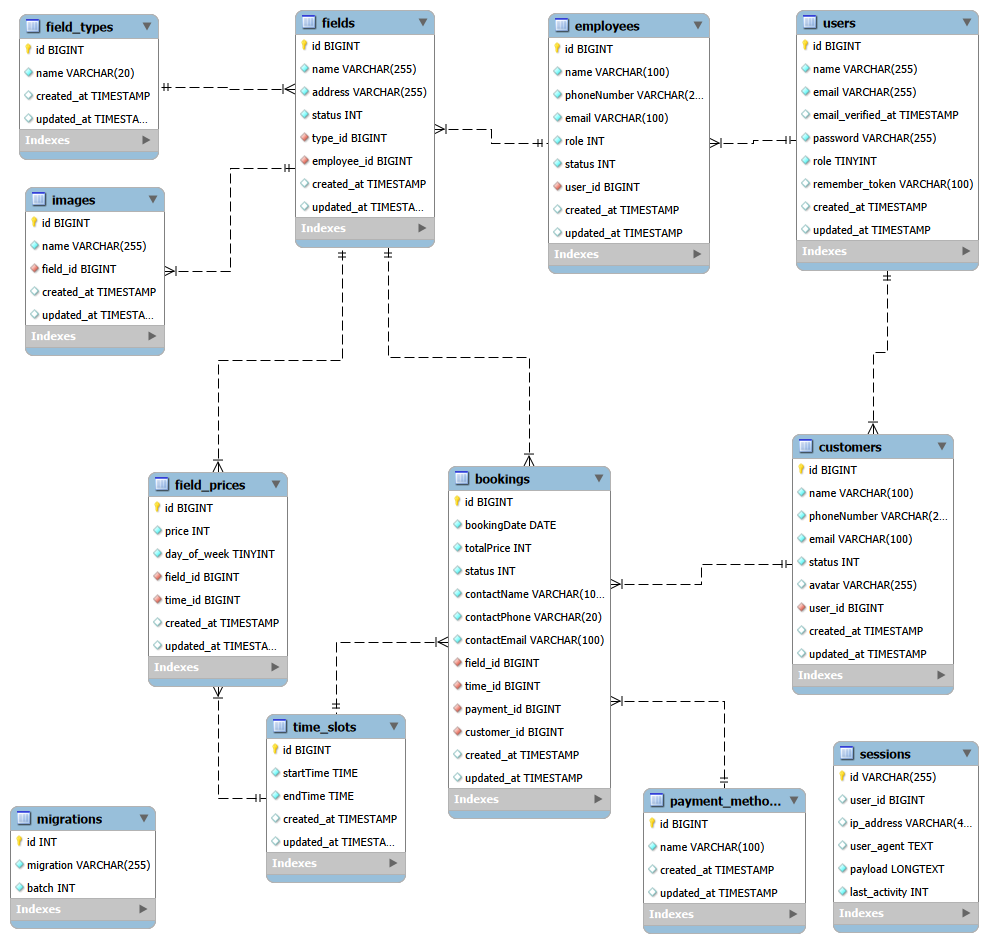
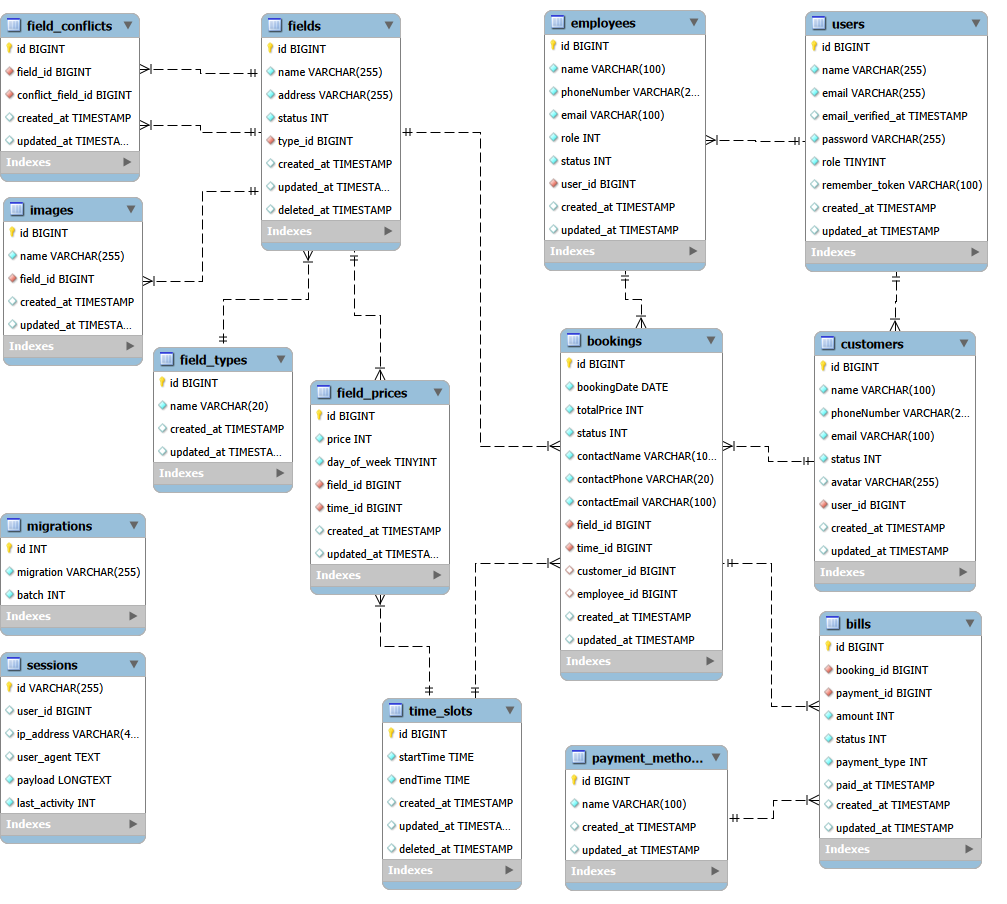
thay đổi cấu trúc file modal field

diff --git a/app/Http/Controllers/BookingController.php b/app/Http/Controllers/BookingController.php
@@ -57,64 +57,64 @@ class BookingController extends Controller
     public function store(StoreBookingRequest $request)
     {
         $user = Auth::user();
-        $customerId = $user->customers->id;
-        $field = Field::with(['conflicts', 'reverseConflicts'])->findOrFail($request->field_id);
-        $conflictFieldIds = $field->getConflictFieldIds();
 
-        DB::beginTransaction();
+        $field = Field::with(['conflicts', 'reverseConflicts'])
+            ->findOrFail($request->field_id);
 
         try {
-            $exists = Booking::whereIn('field_id', $conflictFieldIds)
-                ->where('bookingDate', $request->date)
-                ->where('time_id', $request->time_id)
-                ->whereNotIn('status', [3, 4])
-                ->lockForUpdate()
-                ->exists();
+            $booking = DB::transaction(function () use ($request, $user, $field) {
 
-            if ($exists) {
-                DB::rollBack();
-                return back()->withInput()->withErrors(['time_id' => 'Khung giờ này đã được đặt!']);
-            }
+                $conflictFieldIds = $field->getConflictFieldIds();
 
-            $billAmount = $request->price;
+                Field::whereIn('id', $conflictFieldIds)
+                    ->lockForUpdate()
+                    ->get();
 
-            if ($request->payment_type == 'deposit') {
-                $billAmount = $request->price / 2;
-            }
+                $exists = Booking::whereIn('field_id', $conflictFieldIds)
+                    ->where('bookingDate', $request->date)
+                    ->where('time_id', $request->time_id)
+                    ->whereNotIn('status', [3, 4])
+                    ->exists();
 
-            $booking = Booking::create([
-                'bookingDate' => $request->date,
-                'totalPrice' => $request->price,
-                'status' => 0,
-                'contactName' => $request->contactName,
-                'contactPhone' => $request->contactPhone,
-                'contactEmail' => $request->contactEmail,
-                'field_id' => $request->field_id,
-                'time_id' => $request->time_id,
-                'customer_id' => $customerId,
-                'employee_id' => null,
-            ]);
+                if ($exists) {
+                    throw new \Exception('Khung giờ này đã được đặt!');
+                }
 
-            Bill::create([
-                'booking_id' => $booking->id,
-                'payment_id' => $request->payment_id,
-                'amount' => $billAmount,
-                'status' => 0,
-                'payment_type' => $request->payment_type,
-                'paid_at' => null,
-                'note' => null,
-            ]);
+                $billAmount = $request->price;
 
-            DB::commit();
-            return redirect()->route('booking.success', $booking->id)->with('success', 'Đặt sân bóng thành công!');
-        } catch (QueryException $e) {
-            DB::rollBack();
+                if ($request->payment_type === 'deposit') {
+                    $billAmount = $request->price / 2;
+                }
 
-            if ($e->getCode() == 23000) {
-                return back()->withErrors(['time_id' => 'Khung giờ này đã được đặt.']);
-            }
+                $booking = Booking::create([
+                    'bookingDate' => $request->date,
+                    'totalPrice' => $request->price,
+                    'status' => 0,
+                    'contactName' => $request->contactName,
+                    'contactPhone' => $request->contactPhone,
+                    'contactEmail' => $request->contactEmail,
+                    'field_id' => $request->field_id,
+                    'time_id' => $request->time_id,
+                    'customer_id' => $user->customers->id,
+                ]);
 
-            throw $e;
+                $booking->Bills()->create([
+                    'payment_id' => $request->payment_id,
+                    'amount' => $billAmount,
+                    'status' => 0,
+                    'payment_type' => $request->payment_type,
+                ]);
+
+                return $booking;
+            });
+
+            return redirect()
+                ->route('booking.success', $booking->id)
+                ->with('success', 'Đặt sân bóng thành công!');
+        } catch (\Exception $e) {
+            return back()
+                ->withInput()
+                ->withErrors(['time_id' => $e->getMessage()]);
         }
     }
 

diff --git a/app/Http/Controllers/HomeController.php b/app/Http/Controllers/HomeController.php
@@ -50,20 +50,16 @@ class HomeController extends Controller
             });
         }
 
-        // lọc theo địa chỉ
         if ($request->province) {
             $province = str_replace(['Thành phố ', 'Tỉnh '], '', $request->province);
-
             $query->where('address', 'like', "%$province%");
         }
 
-        // lọc theo loại sân
         if ($type_id) {
             $query->where('type_id', $type_id);
         }
 
         $fields = $query->latest()->paginate(6);
-
         $types = FieldType::all();
 
         return view('customers.fields.search', compact('search', 'fields', 'types', 'type_id'));
@@ -71,48 +67,27 @@ class HomeController extends Controller
 
     public function show(Request $request, $id)
     {
-        $field = Field::with(['FieldPrice.TimeSlot', 'conflicts', 'reverseConflicts'])->findOrFail($id);
+        $field = Field::with([
+            'FieldPrice.TimeSlot',
+            'conflicts',
+            'reverseConflicts'
+        ])->findOrFail($id);
 
-        if ($request->has('date')) {
-            $date = $request->date;
-        } else {
-            $date = Carbon::today()->toDateString();
-        }
+        $date = $request->get('date', now()->toDateString());
 
-        $dayOfWeek = Carbon::parse($date)->dayOfWeekIso;
+        $prices = $field->getPricesByDate($date);
 
-        $prices = $field->FieldPrice
-            ->where('day_of_week', $dayOfWeek)
-            ->sortBy(fn($p) => $p->TimeSlot->startTime);
+        $slots = $field->splitTimeSlots($prices);
 
-        $conflictFieldIds = $field->getConflictFieldIds();
+        $bookedSlots = $field->getBookedSlots($date);
 
-        $bookedSlots = Booking::whereIn('field_id', $conflictFieldIds)
-            ->where('bookingDate', $date)
-            ->whereNotIn('status', [3, 4])
-            ->pluck('time_id')
-            ->toArray();
-
-        $morning = $prices->filter(function ($p) {
-            return Carbon::parse($p->TimeSlot->startTime)->hour < 12;
-        });
-
-        $afternoon = $prices->filter(function ($p) {
-            $hour = Carbon::parse($p->TimeSlot->startTime)->hour;
-            return $hour >= 12 && $hour < 18;
-        });
-
-        $evening = $prices->filter(function ($p) {
-            return Carbon::parse($p->TimeSlot->startTime)->hour >= 18;
-        });
-
-        return view('customers.fields.show', compact(
-            'field',
-            'date',
-            'morning',
-            'afternoon',
-            'evening',
-            'bookedSlots'
-        ));
+        return view('customers.fields.show', [
+            'field' => $field,
+            'date' => $date,
+            'morning' => $slots['morning'],
+            'afternoon' => $slots['afternoon'],
+            'evening' => $slots['evening'],
+            'bookedSlots' => $bookedSlots,
+        ]);
     }
 }

diff --git a/app/Models/Field.php b/app/Models/Field.php
@@ -64,4 +64,52 @@ class Field extends Model
 
         return array_values(array_unique($ids));
     }
+
+    public function getLinkedFieldsAttribute()
+    {
+        return $this->conflicts
+            ->merge($this->reverseConflicts)
+            ->unique('id')
+            ->values();
+    }
+
+    public function getPricesByDate($date)
+    {
+        $dayOfWeek = \Carbon\Carbon::parse($date)->dayOfWeekIso;
+
+        return $this->FieldPrice
+            ->where('day_of_week', $dayOfWeek)
+            ->sortBy(fn($p) => $p->TimeSlot->startTime);
+    }
+
+    public function splitTimeSlots($prices)
+    {
+        return [
+            'morning' => $prices->filter(
+                fn($p) =>
+                \Carbon\Carbon::parse($p->TimeSlot->startTime)->hour < 12
+            ),
+
+            'afternoon' => $prices->filter(function ($p) {
+                $hour = \Carbon\Carbon::parse($p->TimeSlot->startTime)->hour;
+                return $hour >= 12 && $hour < 18;
+            }),
+
+            'evening' => $prices->filter(
+                fn($p) =>
+                \Carbon\Carbon::parse($p->TimeSlot->startTime)->hour >= 18
+            ),
+        ];
+    }
+
+    public function getBookedSlots($date)
+    {
+        $conflictFieldIds = $this->getConflictFieldIds();
+
+        return \App\Models\Booking::whereIn('field_id', $conflictFieldIds)
+            ->where('bookingDate', $date)
+            ->whereNotIn('status', [3, 4])
+            ->pluck('time_id')
+            ->toArray();
+    }
 }

diff --git a/resources/views/customers/fields/show.blade.php b/resources/views/customers/fields/show.blade.php
@@ -42,11 +42,7 @@
                         </span>
                     </div>
 
-                    @php
-                        $linkedFields = $field->conflicts->merge($field->reverseConflicts)->unique('id')->values();
-                    @endphp
-
-                    @if ($linkedFields->count() > 0)
+                    @if ($field->linked_fields->count() > 0)
                         <div class="mt-4 rounded-xl border border-yellow-200 bg-yellow-50 px-4 py-3">
                             <p class="flex item-center gap-2 text-sm font-semibold text-yellow-700">
                                 <svg xmlns="http://www.w3.org/2000/svg" class="w-5 h-5" viewBox="0 0 20 20">
@@ -58,7 +54,7 @@
                                 Nếu một sân trong cụm đã được đặt, các sân còn lại cùng khung giờ sẽ tự khóa.
                             </p>
                             <div class="mt-3 flex flex-wrap gap-2">
-                                @foreach ($linkedFields as $item)
+                                @foreach ($field->linked_fields as $item)
                                     <a href="{{ route('san.show', $item->id) }}"
                                         class="rounded-full border border-yellow-300 bg-white px-3 py-1 text-sm text-yellow-700 hover:bg-amber-100">
                                         {{ $item->name }} - {{ $item->fieldType->name }}

diff --git a/database/migrations/2026_02_09_072521_create_bills_table.php b/database/migrations/2026_02_09_072521_create_bills_table.php
@@ -17,9 +17,8 @@ return new class extends Migration
             $table->unsignedBigInteger('payment_id');
             $table->integer('amount')->notnullable();
             $table->integer('status')->default('0');
-            $table->string('payment_type', 30)->notnullable();
+            $table->integer('payment_type')->default('0');
             $table->timestamp('paid_at')->nullable();
-            $table->text('note')->nullable();
             $table->timestamps();
 
             $table->foreign('booking_id')->references('id')->on('bookings')->onDelete('cascade');

diff --git a/app/Http/Controllers/Information.php b/app/Http/Controllers/Information.php
@@ -51,7 +51,7 @@ class Information extends Controller
     public function history(Request $request)
     {
         $query = Booking::with(['Fields', 'TimeSlot', 'PaymentMethod', 'Bills'])
-            ->where('customer_id', auth()->user()->customers->id);
+            ->where('customer_id', Auth::user()->customers->id);
 
         $booking = $query
             ->orderByRaw("FIELD(status, 1, 0, 2, 3, 4)")
